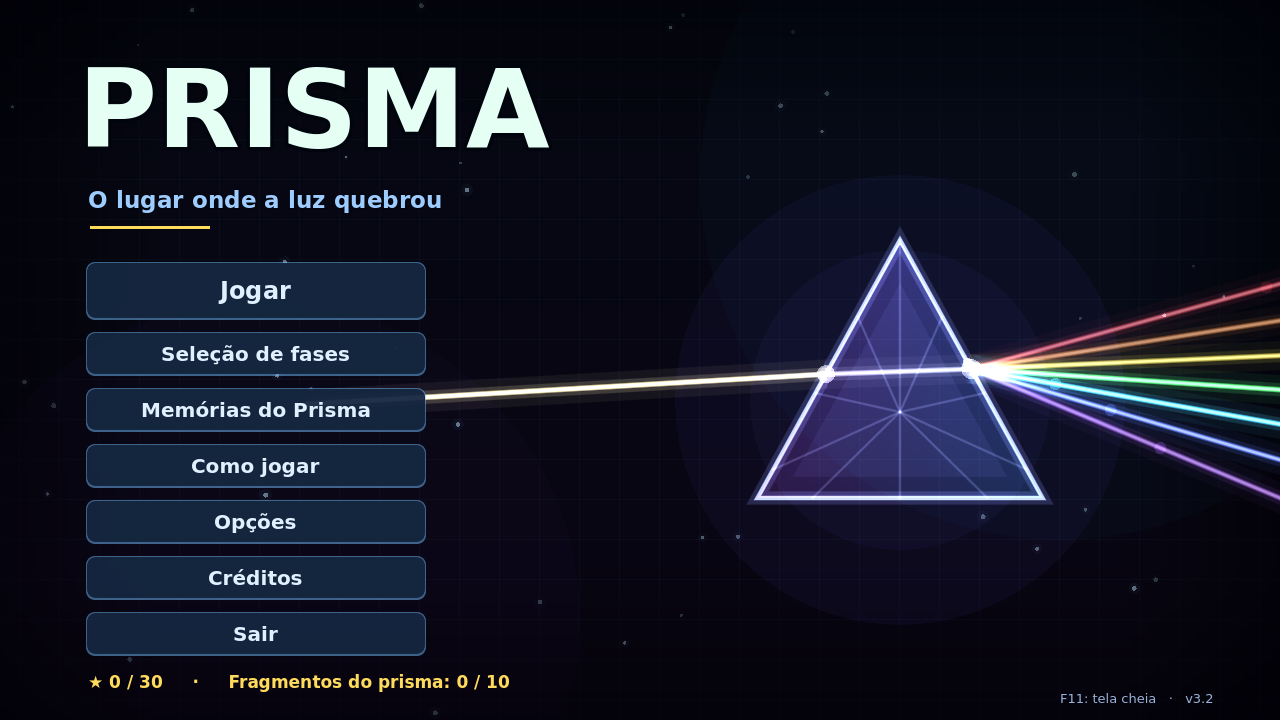
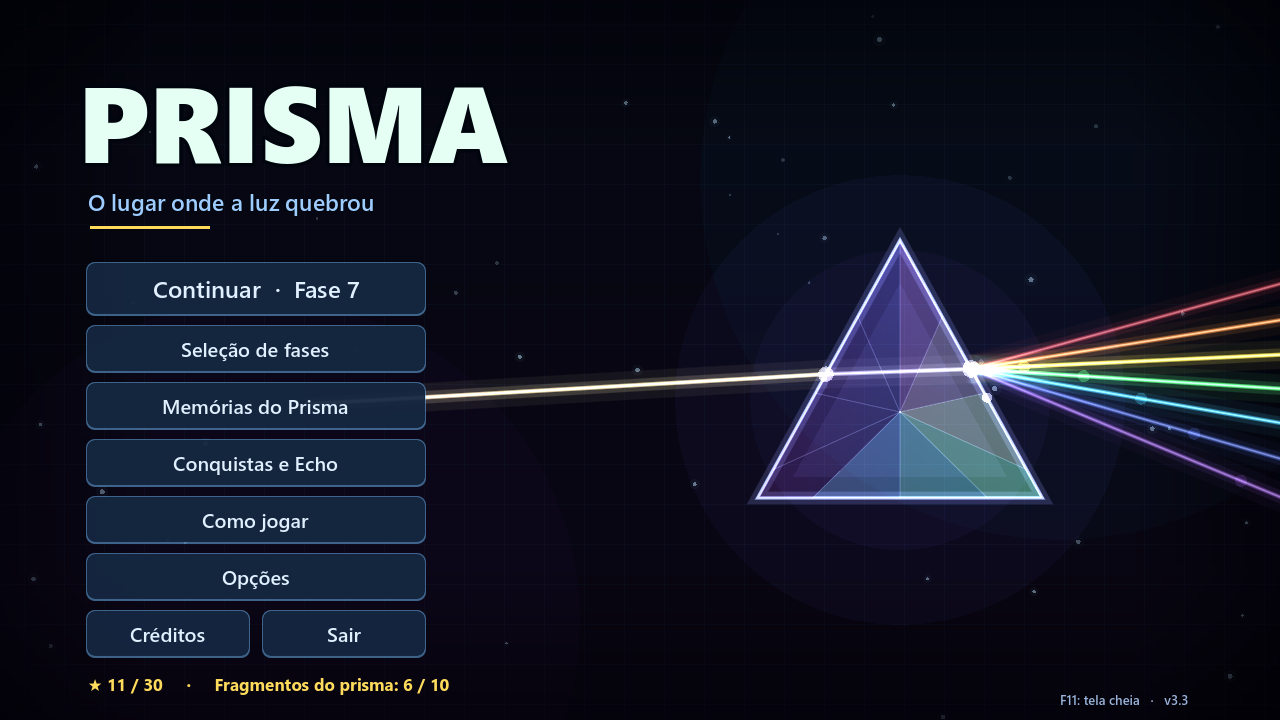
docs: documenta a interatividade da versao 3.3.0
- CHANGELOG com a secao [3.3.0]
- README com a secao 'Mais interativo e mais bonito (versao 3.3)' e prints novos
- GDD: conquistas e recompensas, secao 9.4, telas, direcao de arte, acessibilidade e arquitetura
- rodape do menu com v3.3

diff --git a/docs/GDD.md b/docs/GDD.md
@@ -137,6 +137,12 @@ só aparece quando o jogador usa teclado ou controle.
 - **Fragmentos:** a primeira conclusão de cada fase recupera um fragmento ("Fragmento 3 de 10 recuperado!"), que acende no prisma do menu.
 - **Recordes:** o melhor número de rotações aparece na seleção de fases; bater o recorde mostra "Novo recorde pessoal!".
 - **Tempo:** mostrado no painel de vitória (informativo, não pontua).
+- **Conquistas (versão 3.3):** 10 conquistas (`scripts/conquistas.gd`): Primeira luz, Por conta própria
+  (sem dica), Na medida (exatamente a meta), Rápido como a luz (menos de 15 s), Amigo do Echo, Curioso
+  (3 curiosidades), Cientista (abrir "Por que funcionou?"), Meio prisma, Prisma restaurado e Céu estrelado
+  (30 estrelas). Aparecem com um troféu na hora e ficam na tela "Conquistas e Echo".
+- **As estrelas viram recompensas:** cores do Echo (menta 5, rosa 10, violeta 15, dourado 22,
+  arco-íris 30) e acessórios (laço 8, chapéu de mago 16, coroa 26). O jogador escolhe no menu.
 
 ## 8. Level design
 
@@ -218,21 +224,38 @@ comentários para não poluir a tela.
 
 ![Conversa com o Echo](img/echo_conversa.png)
 
+### 9.4 Experimentar sem medo (versão 3.3)
+
+- **Prévia da luz:** com o mouse sobre um espelho, um tracejado mostra para onde a luz iria no próximo
+  giro (+15°). O cálculo usa o mesmo `Feixe.tracar()` do jogo, sem mexer no feixe de verdade. Liga e
+  desliga junto com o guia de ângulos (`G`).
+- **Echo que aponta:** na dica, Echo sai da barra superior e voa até o espelho que ainda precisa girar.
+  Na primeira dica ele só mostra *qual* espelho; na segunda, o contorno verde mostra também o ângulo.
+- **Sala que toca:** clicar num espaço vazio solta uma onda de luz e toca uma nota da escala do jogo
+  (grave à esquerda, aguda à direita). É um "brinquedo" que não interfere no puzzle.
+
+![Prévia da luz](img/previa_luz.png)
+
+![Echo voa até o espelho](img/echo_voa_dica.png)
+
 ## 10. Interface e telas
 
 | Tela | Conteúdo |
 | --- | --- |
-| Menu principal | Jogar/Continuar, Seleção de fases, Memórias do Prisma, Como jogar, Opções, Créditos, Sair; prisma animado com os fragmentos recuperados; total de estrelas |
+| Menu principal | Jogar/Continuar, Seleção de fases, Memórias do Prisma, Conquistas e Echo, Como jogar, Opções, Créditos e Sair; prisma animado com os fragmentos recuperados; total de estrelas |
+| Conquistas e Echo | Lista das 10 conquistas (ganhas e bloqueadas) e o visual do Echo: cores e acessórios liberados por estrelas |
 | Nome do jogador | Na primeira partida: Echo se apresenta e pergunta o nome (Começar / Prefiro não dizer) |
 | Memórias do Prisma | As 10 memórias da história; as bloqueadas mostram qual fase concluir |
-| Seleção de fases | 10 cartões com miniatura da sala, meta, recorde, estrelas e cadeado |
-| HUD da fase | Nome, objetivo, rotações (com cor em relação à meta), cristais acesos, botões Dica/Reiniciar/Pausa; linha de controles que muda quando o controle é usado |
+| Seleção de fases | O Farol de Aurora: 10 andares (de baixo para cima) com janela acesa, estrelas ou cadeado; lanterna que brilha com os fragmentos; cartão com miniatura grande, objetivo, meta, recorde e botão Jogar |
+| HUD da fase | Nome, objetivo, rotações (com cor em relação à meta), cristais como gemas que acendem, Echo clicável, botões Dica/Reiniciar/Pausa; linha de atalhos que cresce conforme a fase e muda quando o controle é usado |
 | Vitória | Título de fragmento, estrelas animadas, rotações, meta, tempo, recorde, comentário do Echo, memória do fragmento (1ª vez), "Por que funcionou?"; Fases / Jogar de novo / Próxima fase |
 | Pausa | Continuar, Reiniciar, Música, Seleção de fases, Menu principal |
 | Tela final | Prisma restaurado com os 10 fragmentos, agradecimento do Echo com o nome do jogador, confete, total de estrelas |
-| Opções | Volumes, tela cheia, guia de ângulos, apagar progresso; cartão "Você e o Echo" com o nome e as pistas ligadas/desligadas |
+| Opções | Volumes, tela cheia, guia de ângulos, reduzir efeitos, apagar progresso; cartão "Você e o Echo" com o nome e as pistas ligadas/desligadas |
 
-![Seleção de fases](img/selecao.png)
+![Seleção de fases como o Farol de Aurora](img/farol.png)
+
+![Conquistas e visual do Echo](img/conquistas.png)
 
 ## 11. Direção de arte
 
@@ -253,6 +276,14 @@ direção da luz. Na vitória há *flash*, um leve tremor de câmera e faíscas 
 O espelho balança ao girar, e o cristal apagado treme e brilha fraco quando o raio passa a menos de
 100 px dele ("quase lá").
 
+Na versão 3.3, a vitória ganhou um momento de cinema: câmera lenta curta (`Engine.time_scale`),
+zoom leve no último cristal aceso e um fragmento brilhante que voa em curva até o prisma do logo,
+que pulsa ao recebê-lo. A seleção de fases virou o **Farol de Aurora** da história, desenhado por
+código, com janelas que acendem e uma lanterna cujos feixes crescem com os fragmentos. Os botões
+crescem e brilham ao passar o mouse, e conquistas aparecem com um troféu desenhado.
+
+![Conquista na vitória](img/vitoria_conquista.png)
+
 ## 12. Áudio
 
 - **Música:** trilha do menu (`menu_loop.mp3`) e das fases (`gameplay_music.mp3`), em loop, com transição suave. Não reinicia ao trocar de fase.
@@ -269,12 +300,17 @@ O espelho balança ao girar, e o cristal apagado treme e brilha fraco quando o r
 - **Sem pressão de tempo:** o tempo é só informativo, o jogo pausa sozinho ao perder o foco da janela, e o desfazer é ilimitado.
 - **Ajuda em camadas:** tutorial visual, dicas em dois níveis, Echo que reage às ações e caixa de informação em cada peça.
 - Interface que escala para qualquer resolução e modo de tela cheia.
+- **Reduzir efeitos (versão 3.3):** opção em *Opções* que desliga tremor de câmera, *flash* branco,
+  câmera lenta e zoom, para quem sente desconforto com esses efeitos. Fica salva com as outras opções.
+- **Menos texto de uma vez:** a linha de atalhos mostra só o que o jogador já aprendeu (fase 1: clicar,
+  girar e dica; fase 2: trocar e desfazer; depois Echo, ângulos e música), e o balão do Echo procura um
+  canto que não cubra as peças nem o raio.
 
 ## 14. Arquitetura técnica
 
 - **Fases guiadas por dados:** `scripts/levels.gd` descreve cada fase (gerado a partir de `tools/level_simulator/levels.json`). A cena `scenes/main.tscn` cria os objetos a partir desses dados ([ADR 001](adr/001-fases-como-dados-em-script.md)).
 - **Regras puras e testáveis:** `scripts/geometria.gd` (rotação, reflexão, interseções, estrelas, ângulo de incidência, inclinação) e `scripts/feixe.gd` (caminho da luz com fila de raios para divisores e prismas). O jogo e os testes usam o mesmo código ([ADR 005](adr/005-calculo-do-feixe-puro-e-testavel.md)).
-- **Interatividade:** `scripts/echo_brain.gd` (falas do Echo, nome do jogador e modo "Deixa comigo"), `scripts/echo_face.gd` (rosto do Echo), `scripts/musica.gd` (notas e melodias), `scripts/historia.gd` (memórias dos fragmentos), `scripts/angle_guide.gd` (guia de ângulos). As reflexões usadas pelo guia e pela explicação vêm do mesmo `Feixe.tracar()`.
+- **Interatividade:** `scripts/echo_brain.gd` (falas do Echo, nome do jogador e modo "Deixa comigo"), `scripts/echo_face.gd` (rosto do Echo), `scripts/musica.gd` (notas e melodias), `scripts/historia.gd` (memórias dos fragmentos), `scripts/angle_guide.gd` (guia de ângulos), `scripts/conquistas.gd` (conquistas e recompensas, regras puras), `scripts/light_preview.gd` (prévia da luz no próximo giro) e `scripts/click_ripple.gd` (onda de luz ao clicar). As reflexões usadas pelo guia e pela explicação vêm do mesmo `Feixe.tracar()`.
 - **Autoloads:** `GameState` (progresso e salvamento em `user://prisma_save.cfg`), `Sfx` (áudio) e `Transition` (transições).
 - **Qualidade:** `tests/run_tests.gd` cobre as regras e as 10 fases; a CI roda os testes a cada push, e a CD publica a build Windows a cada tag de versão.
 

diff --git a/CHANGELOG.md b/CHANGELOG.md
@@ -5,6 +5,42 @@ Todas as mudancas notaveis deste projeto serao documentadas neste arquivo.
 O formato e baseado em [Keep a Changelog](https://keepachangelog.com/pt-BR/1.0.0/),
 e este projeto segue o [Versionamento Semantico](https://semver.org/lang/pt-BR/).
 
+## [3.3.0] - 2026-10-30
+
+Jogo mais interativo e mais bonito, so no visual e na sensacao: as regras das fases, a
+matematica do feixe e as solucoes nao mudaram.
+
+### Adicionado
+
+- Previa da luz (`scripts/light_preview.gd`): com o mouse sobre um espelho, um tracejado mostra
+  para onde a luz vai no proximo giro. Usa o calculo puro de `feixe.gd` e liga/desliga com `G`.
+- Echo que voa: na dica, ele sai da barra superior, voa ate o espelho que precisa girar, fica
+  ao lado dele e depois volta.
+- Vitoria cinematografica: camera lenta curta, zoom leve no ultimo cristal e um fragmento
+  brilhante que voa do cristal ate o prisma do logo antes do painel de vitoria.
+- Conquistas (`scripts/conquistas.gd`): 10 conquistas, com aviso de trofeu na fase e a tela
+  "Conquistas e Echo" no menu.
+- Visual do Echo liberado por estrelas: cores (menta, rosa, violeta, dourado, arco-iris) e
+  acessorios (laco, chapeu de mago, coroa).
+- Selecao de fases como o Farol de Aurora: as 10 fases sao andares que acendem conforme sao
+  concluidos; a lanterna no topo brilha mais a cada fragmento. Setas escolhem e Enter joga.
+- Sala que toca: clicar num espaco vazio solta uma onda de luz e toca uma nota da escala.
+- Opcao "Reduzir efeitos" (acessibilidade): sem tremor de camera, flash, camera lenta e zoom.
+- Testes: 119 verificacoes (conquistas, recompensas, atalhos por fase e nota da sala).
+
+### Alterado
+
+- Balao do Echo mais estreito e posicionado longe das pecas, do espelho selecionado e do raio.
+- Atalhos da barra inferior aparecem aos poucos, conforme a fase.
+- Cristais da barra superior viram gemas que acendem; objetivo longo quebra em duas linhas.
+- Botoes crescem e brilham ao passar o mouse.
+- Menu: "Creditos" e "Sair" dividem a ultima linha para caber "Conquistas e Echo".
+
+### Corrigido
+
+- Texto "Bloqueada" sobreposto ao nome da fase na selecao de fases.
+- Barra superior que saia da tela no Windows quando o objetivo da fase era longo.
+
 ## [3.2.0] - 2026-10-30
 
 Jogo mais interativo com o jogador: a luz vira musica, o Echo vira personagem e os
